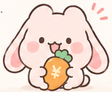
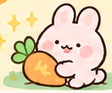
Changed Tamepyon Design

diff --git a/index.html b/index.html
@@ -101,7 +101,7 @@
           <figcaption><h3>おかねこ</h3><p>お金といっしょに暮らす<br>しっかり者のねこ</p></figcaption>
         </figure>
         <figure>
-          <img src="assets/images/tamepyon.webp" width="223" height="183" alt="にんじんを抱えた、長い耳のためぴょん" loading="lazy" srcset="assets/images/tamepyon-112.webp 112w, assets/images/tamepyon.webp 223w" sizes="(max-width: 359px) calc((100vw - 68px) / 3), (max-width: 540px) calc((100vw - 76px) / 3), (max-width: 700px) 155px, (max-width: 1000px) calc(19.333vw - 23.854px), 204px" decoding="async">
+          <img src="assets/images/tamepyon.webp" width="145" height="120" alt="にんじんを抱えた、ピンクのうさぎのためぴょん" loading="lazy" srcset="assets/images/tamepyon-112.webp 112w, assets/images/tamepyon.webp 145w" sizes="(max-width: 359px) calc((100vw - 68px) / 3), (max-width: 540px) calc((100vw - 76px) / 3), (max-width: 700px) 155px, (max-width: 1000px) calc(19.333vw - 23.854px), 204px" decoding="async">
           <figcaption><h3>ためぴょん</h3><p>頑張るあなたに寄り添う<br>やさしいうさぎ</p></figcaption>
         </figure>
       </div>

diff --git a/scripts/extract-assets.py b/scripts/extract-assets.py
@@ -1,7 +1,7 @@
-"""Extract existing artwork from the four supplied approved reference boards.
+"""Extract existing artwork from the supplied approved reference boards and updated sticker specification.
 
 No drawing, generation, retouching, or character redesign is performed.
-Run with the directory containing the original four PNG attachments.
+Run with the directory containing the original PNG attachments and updated sticker specification.
 """
 import argparse
 from pathlib import Path
@@ -18,6 +18,7 @@ boards = {
     "character": "ChatGPT Image Oct 4, 2026, 10_32_19 AM.png",
     "ui": "ChatGPT Image Oct 4, 2026, 10_32_24 AM.png",
     "share": "ChatGPT Image Oct 4, 2026, 10_32_27 AM.png",
+    "sticker": "ChatGPT Image Oct 4, 2026, 10_47_09 PM.png",
 }
 images = {key: Image.open(args.source_dir / filename).convert("RGB") for key, filename in boards.items()}
 # Coordinates refer to the original attachment pixels. Text/name rows are excluded.
@@ -25,7 +26,7 @@ crops = {
     "hero-room": ("website", (278, 45, 652, 310)),
     "jikyuchan": ("character", (222, 95, 419, 280)),
     "okaneko": ("character", (654, 96, 862, 280)),
-    "tamepyon": ("character", (1077, 97, 1300, 280)),
+    "tamepyon": ("sticker", (819, 818, 964, 938)),
     "jikyuchan-normal": ("ui", (437, 52, 560, 162)),
     "jikyuchan-happy": ("ui", (593, 50, 739, 163)),
     "jikyuchan-thinking": ("ui", (751, 47, 895, 164)),

diff --git a/assets/images/SOURCES.md b/assets/images/SOURCES.md
@@ -13,7 +13,7 @@ All artwork is cropped from the user's approved attachments. No replacement artw
 | `hero-room.webp` | ChatGPT Image Oct 4, 2026, 10_31_56 AM.png | `(278, 45, 652, 310)` | 374 × 265 |
 | `jikyuchan.webp` | ChatGPT Image Oct 4, 2026, 10_32_19 AM.png | `(222, 95, 419, 280)` | 197 × 185 |
 | `okaneko.webp` | ChatGPT Image Oct 4, 2026, 10_32_19 AM.png | `(654, 96, 862, 280)` | 208 × 184 |
-| `tamepyon.webp` | ChatGPT Image Oct 4, 2026, 10_32_19 AM.png | `(1077, 97, 1300, 280)` | 223 × 183 |
+| `tamepyon.webp` | ChatGPT Image Oct 4, 2026, 10_47_09 PM.png (panel 22) | `(819, 818, 964, 938)` | 145 × 120 |
 | `jikyuchan-normal.webp` | ChatGPT Image Oct 4, 2026, 10_32_24 AM.png | `(437, 52, 560, 162)` | 123 × 110 |
 | `jikyuchan-happy.webp` | ChatGPT Image Oct 4, 2026, 10_32_24 AM.png | `(593, 50, 739, 163)` | 146 × 113 |
 | `jikyuchan-thinking.webp` | ChatGPT Image Oct 4, 2026, 10_32_24 AM.png | `(751, 47, 895, 164)` | 144 × 117 |
@@ -43,3 +43,5 @@ Responsive derivatives: `hero-room-320.webp`, `jikyuchan-100.webp`, `okaneko-104
 `icon-night.svg` and `icon-shopping.svg` are manually authored simple vector icons following the Share Card Master's crescent/bag shapes and colors; no character tracing. Their old WebP crops remain available as provenance/reference, but are not served by the page. The wordmark is HTML text and the Apple symbol is inline SVG.
 
 App repository assets were inspected but rejected where face/pose/props/composition differed. See `docs/asset-audit-before.md` and `docs/retina-quality-report.md` for remaining source gaps.
+
+Tamepyon update (2026-10-06): the homepage now uses the upright-eared pink rabbit holding a carrot from panel 22 of the user-supplied sticker specification. Only the illustration area was cropped; lettering and animation-strip examples were excluded. The full-size WebP is an exact RGB source crop, and the 112×93 candidate is downsampled. No character generation, redraw, or upscaling. Existing character lineup styling is unchanged.

diff --git a/README.md b/README.md
@@ -52,7 +52,7 @@ Header → Hero → 캐릭터 소개 → 6개의 이야기 카드 → Final CTA 
 기존 저장소에는 이미지 자산이 없었습니다. 제공된 4개 PNG 보드에서 기존 그림을 그대로 잘라 WebP로 저장했습니다. 캐릭터를 새로 만들거나 AI 그림을 생성하지 않았습니다. 캐릭터 이름은 **じきゅうちゃん / おかねこ / ためぴょん**입니다. 모든 그림의 출처와 crop 좌표는 [assets/images/SOURCES.md](assets/images/SOURCES.md)에 기록했습니다.
 
 - Hero 방: Website Mockup의 승인된 그림.
-- 세 캐릭터와 앱 아이콘: Character Master의 기존 그림. 이름이 담긴 이미지 영역은 잘라냈습니다.
+- じきゅうちゃん·おかねこ와 앱 아이콘: Character Master의 기존 그림. 타메뿅은 2026-10-06 요청에 따라 `ChatGPT Image Oct 4, 2026, 10_47_09 PM.png`의 22번 그림(곧은 귀, 당근을 안고 있는 모습)으로 교체했습니다. 이름·문구·애니메이션 예시 영역은 제외하고 기존 그림을 그대로 추출했습니다.
 - 표정·がまんまる: UI Master의 기존 그림.
 - 각 카드의 생활 장면: Website Mockup의 기존 그림.
 - Insight 아이콘과 색상/정보 위계: Share Card Master. 메인 카드의 시간대 예시는 Master를 우선해 **밤에 더 구매하는 패턴(낮31% → 밤68%)**으로 통일했습니다.
